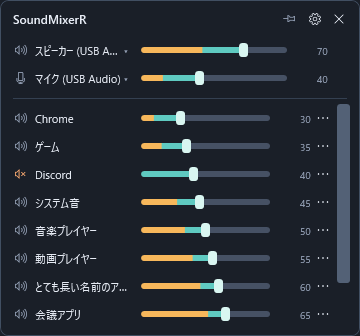
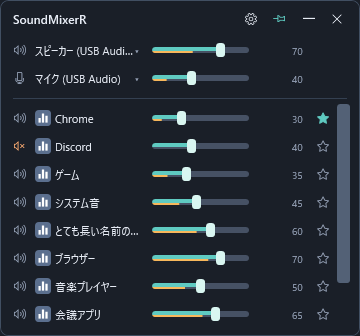
Prepare v0.2.13 release documentation and reviewed preview

diff --git a/README.md b/README.md
@@ -1,37 +1,47 @@
 # SoundMixerR 🎚
 
-Windows 11 x64向けのコンパクトな音量ミキサーです。
-横スライダーでアプリごとの音量・ミュート、全体とアプリ別の出力先・入力先を操作できます。
+Windows 11 x64向けのコンパクトな音量ミキサーです。横スライダーでアプリの音量・ミュート、出力先・入力先を操作できます。
 
-**公開配布版は準備中です。** 公開後は [Releases](https://github.com/mezon-web/SoundMixerR-Releases/releases) に実行ファイルのZIPを掲載します。
+**v0.2.13の配布準備中です。** 下書きリリースはまだ一般公開していません。公開後の配布ZIPは [Releases](https://github.com/mezon-web/SoundMixerR-Releases/releases) に掲載します。
 
 ![SoundMixerRのデモ表示](assets/preview.png)
 
+説明用のデモ表示です。機器名・アプリ名は例です。
+
 ## 使い方
 
-1. 配布ZIPを展開し、`SoundMixerR.exe` を起動します。.NETランタイムは同梱しています。
-2. スライダーで音量を変え、左のアイコンでミュートを切り替えます。
-3. 上段の機器名を押すと標準・通話用の機器をまとめて切り替えます。各アプリの `⋯` から個別の音声セッションと出力先・入力先を変更できます。
-4. トレイの左クリックか `Ctrl + Alt + V` で表示を切り替えます。ホットキーは設定から変更できます。
+1. 配布ZIPをフォルダーへ展開し、`SoundMixerR.exe` を起動します。.NETランタイムは同梱しています。
+2. 横スライダーで音量を調整し、左の音声ボタンでミュートを切り替えます。青緑は設定音量、その下のオレンジは音声レベルです。
+3. 上段の機器名を押すと、Windowsの出力・入力機器を選択できます。設定から標準用と通話用のまとめ変更・個別変更を切り替えられます。
+4. アプリ名を押すと「音声の詳細」が開きます。出力先・入力先を選び、その行の「適用」で確定します。「使用状況」から設定先と使用中・待機中の機器を確認できます。
+5. 右端の☆／★でアプリを一覧上部に固定できます。固定・通常の各グループ内は名前順です。
 
-青緑は設定音量、バー内のオレンジは音声レベルです。音量の `*` は複数セッションで値が異なる状態を示します。
+アプリの音量・ミュート・メーターは、そのアプリの現在の出力先に対応します。別機器の待機セッションの音量は混ぜません。操作先が確認できない場合は数値を「—」と表示します。
 
-外クリック、Esc、×でトレイへ収納します。ピン留め中は最前面に残り、Esc・×では収納できます。
-終了はトレイメニューまたは設定から行います。起動は手動です。
+## 表示と終了
 
-設定は `%LOCALAPPDATA%\SoundMixerR\settings.json` に保存します。更新時はアプリを終了し、新しいZIPを別フォルダーへ展開してください。
+- トレイの左クリック、または `Ctrl + Alt + V` で表示を切り替えます。ホットキーは設定から変更できます。
+- 通常表示中はタスクバーにも表示します。「最小化時にタスクバーから非表示にする」は初期値ONです。OFFでは最小化してもタスクバーに残ります。
+- Esc・トレイの「収納」でトレイへしまいます。外クリックでは収納しません。
+- ピンボタンで最前面表示を切り替えます。ヘッダーのドラッグで移動できます。
+- ヘッダーの×・Alt+F4・トレイの「終了」でアプリを終了します。
+- 設定・詳細を開いている間はメインを操作できません。他のアプリへは切り替えられます。
+
+設定でコンパクト表示とゆったり表示を選べます。起動は手動で、スタートアップ登録機能はありません。
+
+設定は `%LOCALAPPDATA%\SoundMixerR\settings.json` に保存します。更新時はアプリを終了し、新しいZIPを別フォルダーへ展開してください。起動時に過去の音量を強制適用することはありません。
 
 ## 制約と検証
 
-アプリが機器を独自指定している場合、機器変更にアプリ内設定や再起動が必要なことがあります。詳細画面では設定先と実際に使用中の機器を別々に表示します。
-マイク音量・ミュートは機器共通です。排他モード・ASIOなど、Windows共有ミキサーを通らない音声は制御できない場合があります。
+アプリ独自の機器指定、排他モード・ASIOなどの音声は、Windows共有ミキサーの操作が反映されない場合があります。機器変更の成功はWindowsの設定値を読み戻して確認します。実際の再生・録音・送信はアプリ側でも確認してください。
 
-アプリ別機器設定にはWindowsの非公開APIを使用します。対応しない環境では取得・変更エラーを表示します。
-検証はローカルで実施し、GitHub Actionsは使用しません。入力機器・物理操作などの未確認事項は [検証結果](docs/verification-v0.1.3.md) に記載しています。
+マイク音量・ミュートは機器共通です。アプリごとのマイク音量バーは設けていません。アプリ別の機器設定はWindowsの非公開APIを使用し、対応しない環境では取得・変更エラーを表示します。
+
+検証はローカルで行い、GitHub Actionsは使用しません。隔離Windowsデスクトップの検査と、物理操作・実音・実OSのDPI変更は区別しています。詳しくは [v0.2.13の検証結果](docs/verification-v0.2.13.md) を参照してください。
 
 ## このリポジトリについて
 
-このリポジトリは配布版と利用者向け文書を管理します。アプリのソースは非公開です。
+このリポジトリは利用者向けの文書・確認済み画像・配布物を管理します。アプリのソースは非公開です。
 GitHubが自動表示する「Source code」は、この配布リポジトリの説明書・画像のアーカイブです。アプリ本体は正式な配布ZIPから入手してください。
 
 [変更履歴](CHANGELOG.md) / [第三者ソフトウェアの表記](SOUNDMIXERR-NOTICES.txt)

diff --git a/docs/verification-v0.2.13.md b/docs/verification-v0.2.13.md
@@ -1,0 +1,28 @@
+# SoundMixerR v0.2.13 検証結果
+
+実施日：2026-11-01。Windows 11 x64、.NET SDK 10.0.402、.NET 10 / WPF、NAudio.Wasapi 3.3.0でローカル検証しました。GitHub Actionsは使用していません。
+
+## 確認できたこと
+
+- Releaseビルドは警告0・エラー0。自動検査379件成功、1件スキップでした。
+- 異なる2つの出力機器へ無音WASAPIストリームを作り、アプリの出力先に対応する音量・ミュート、複数セッションの比率、出力変更後の操作先、古い命令の拒否を確認しました。
+- 音声系の検査で変更した12対象は、元の設定へ戻ったことを読み戻して確認しました。
+- 設定保存・失敗・キャンセル、外部変更、アプリの固定と名前順、機器切断・変更失敗、編集中の候補保持を検査しました。
+- 設定・詳細のモーダル動作、最小化設定ON/OFF、表示復元、ヘッダーの×による終了を検査しました。
+- 暗色テーマ、バーと星の配置、コンパクト／ゆったり表示、100～200%相当のWPF描画を検査しました。短い名前・警告なしの詳細画面は折りたたみ223 DIP、展開321 DIPでした。
+- ランタイム同梱ZIPを展開し、通常起動・トレイ起動・二重起動・終了の4モードが成功しました。
+- ZIPにアプリのソース・ソースZIP・ユーザー設定・ログ・PDBが含まれないことを確認しました。配布文書と自作DLLに現在のユーザーフォルダー・チェックアウトの絶対パス・PC識別名が混入していないことを検査しました。
+
+## 未確認のことと制限
+
+- 入力機器がないため、実アプリ別の入力先変更を1件スキップしています。実際のマイク録音・送信も未検証です。
+- 音声の検査は無音ストリームです。実音が別機器へ移動したことの証明ではありません。
+- GUI検査は隔離Windowsデスクトップ上のWPFイベント・描画・ネイティブウィンドウ状態によるものです。ユーザーの入力デスクトップは切り替えていません。
+- 物理マウス・キーボード操作、実タスクバーのクリック、実OSのDPI変更、複数モニターをまたぐ物理操作、長時間安定性は未検証です。
+- アプリ独自の機器指定、排他モード、ASIOなど、Windows共有ミキサーを通らない音声は反映されない場合があります。非公開APIを使うアプリ別の機器設定は、Windowsの更新によって対応状況が変わる可能性があります。
+
+## 配布候補
+
+配布ファイル：`SoundMixerR-v0.2.13-win-x64.zip`。チェックサムは同じリリースの`SHA256SUMS.txt`で確認できます。
+
+この記録は下書きリリースの準備時点の検査結果です。下書きの添付ファイルは認証付きで再取得して照合します。匿名の公開ダウンロード確認は公開後に行います。

diff --git a/CHANGELOG.md b/CHANGELOG.md
@@ -1,5 +1,19 @@
 # 変更履歴
 
+## v0.2.13（2026-11-01・配布準備中）
+
+- 通常表示中のタスクバー表示と、最小化時にトレイへ収納する設定を追加。
+- ヘッダーの最前面・最小化・終了を分離し、外クリックでの自動収納を廃止。
+- アプリ名から詳細を直接開き、☆／★で一覧上部への固定を切り替える操作へ整理。
+- 各アプリの現在の出力先に対応する音量・ミュート・メーターへ変更。同じ出力先の複数セッションは比率を保って操作。
+- 音声レベルをなめらかに表示し、機器行とアプリ行のバー位置・長さを統一。
+- 設定・詳細をモーダル化し、未適用の変更候補を保持。詳細は出力先・入力先を横並びにして高密度化。
+- 暗色テーマを入力欄・メニュー・OSタイトルバーへ適用し、アプリのアイコンを表示。
+- 音量数値の補足チップを削除。ミュートのチップはクリック後の動作に統一し、名前のチップの先頭の空行を修正。
+- 機器の別名と手動の上下並べ替えを削除。機器名はWindowsの名前を使用。
+
+検証結果と未確認事項は [v0.2.13の検証結果](docs/verification-v0.2.13.md) を参照してください。
+
 ## v0.1.3（配布準備中）
 
 - コンパクトな横スライダー一覧、アプリ単位の音量・ミュート、全体／アプリ別の入出力先変更。
